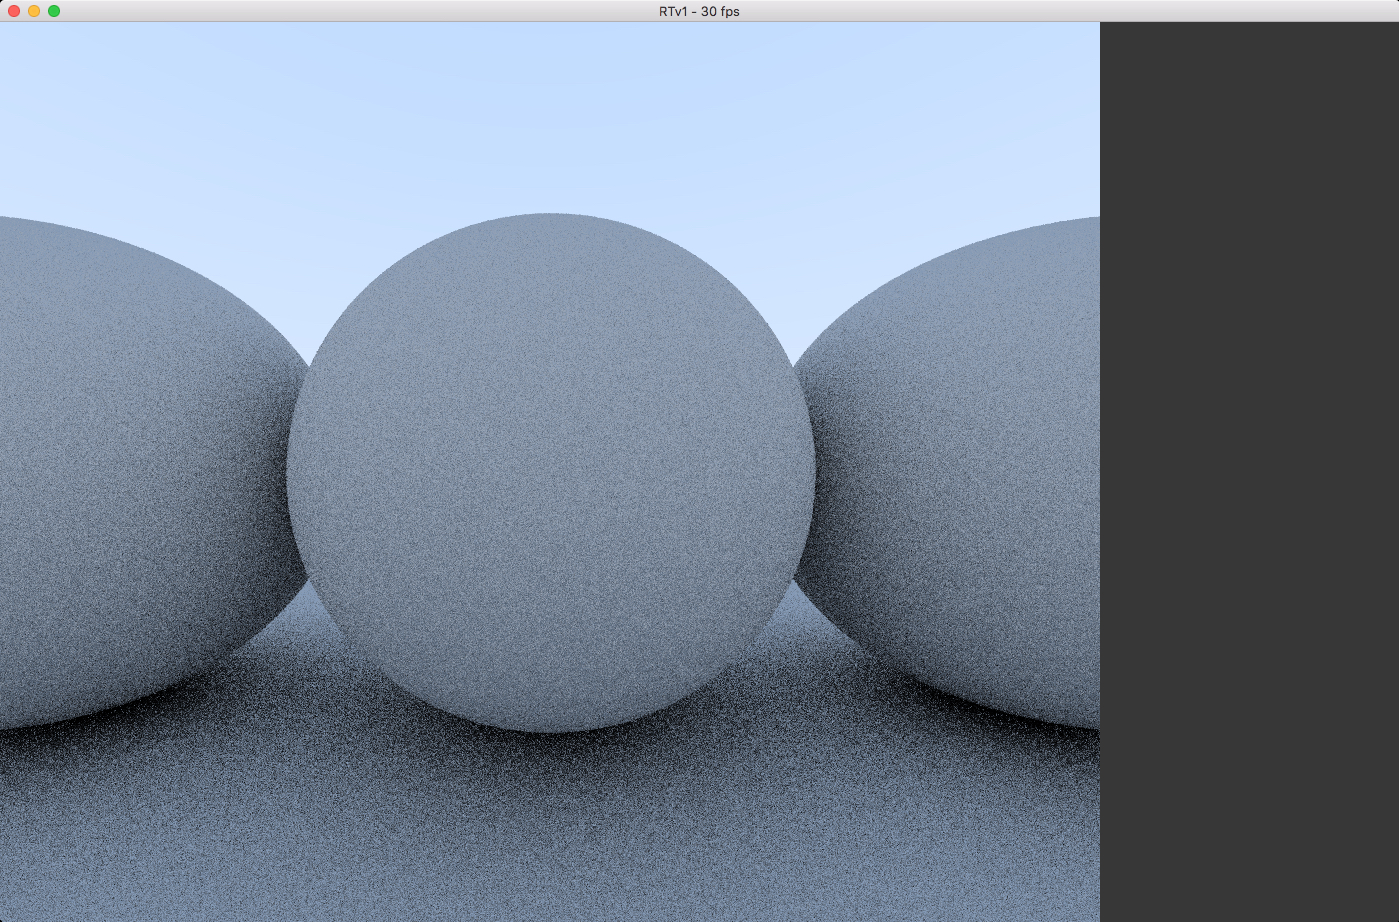
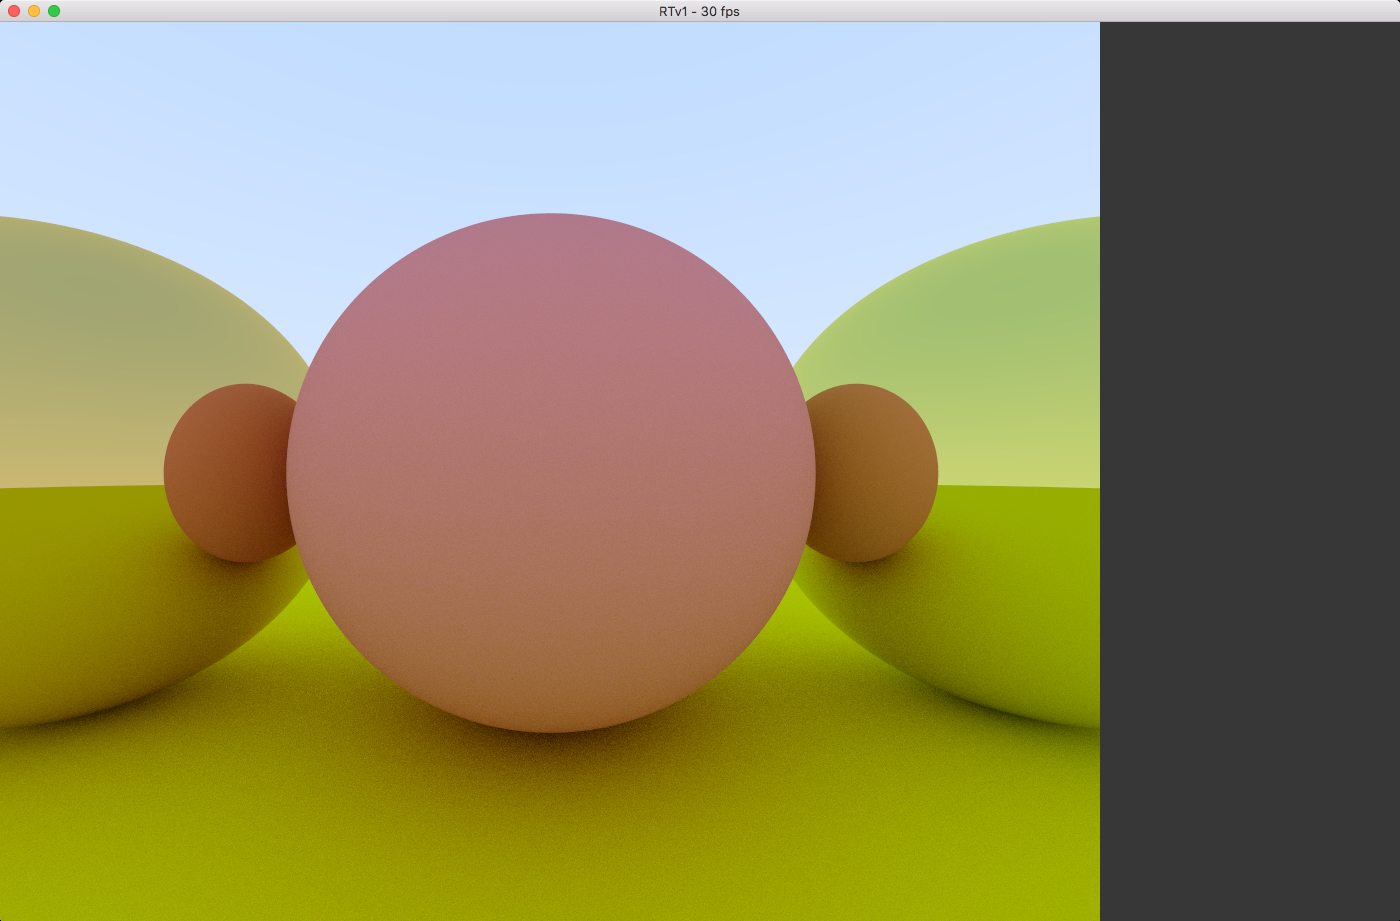
lambertian and metal material added (beta)

diff --git a/srcs/rt_render.c b/srcs/rt_render.c
@@ -6,7 +6,7 @@
 /*   By: qfremeau <qfremeau@student.42.fr>          +#+  +:+       +#+        */
 /*                                                +#+#+#+#+#+   +#+           */
 /*   Created: 2016/11/28 15:38:18 by qfremeau          #+#    #+#             */
-/*   Updated: 2016/11/30 11:59:16 by qfremeau         ###   ########.fr       */
+/*   Updated: 2016/12/02 15:11:27 by qfremeau         ###   ########.fr       */
 /*                                                                            */
 /* ************************************************************************** */
 
@@ -16,7 +16,7 @@
   All vectors need to get a unit length #v3_normalize()
 */
 
-# define ALIASING		1
+# define ALIASING		10
 # define NO_DEPTH		1
 
 static SDL_Color	vec3_to_sdlcolor(t_vec3 v)
@@ -61,30 +61,59 @@ t_vec3				*color(t_ray *ray, t_scene *scene, int depth)
 	t_vec3		*v1;
 	t_vec3		*v2;
 	t_vec3		*ret;
+	t_vec3		*target;
 
 	t_vec3		*emission;
-	t_ray		*scattered = NULL;
-	t_vec3		*attenuation = NULL;
+	t_ray		*scattered;
+	t_vec3		*attenuation;
+	t_vec3		*reflected;
 	float		t;
 
 	param.pos = v3_new_vec(0.0, 0.0, 0.0);
 	param.normal = v3_new_vec(0.0, 0.0, 0.0);
 	if (hit_list(scene, ray, 0.001, FLT_MAX, &param))
 	{
-		if (depth < 10 && param.material->scatter(param.material, ray, \
-			&param, attenuation, scattered))
+		if (depth < 50)//&& param.material->scatter(ray, param, \
+			attenuation, scattered))
 		{
+			if (param.material->type_mat == MAT_METAL)
+			{
+				v1 = v3_unit_vec(*(ray->dir));
+				reflected = reflect(*v1, *(param.normal));
+				scattered = new_ray(v3_copy_vec(*param.pos), reflected);
+				attenuation = param.material->albedo;
+				v3_free(v1);
+
+				if (v3_dot_float(*(scattered->dir), *(param.normal)) <= 0)
+					return (v3_new_vec(0.0, 0.0, 0.0));
+			}
+			else if (param.material->type_mat == MAT_LAMBERT)
+			{
+				v1 = v3_add_vec(*(param.pos), *(param.normal));
+				v2 = random_in_unit_sphere();
+				target = v3_add_vec(*v1, *v2);
+				v3_free(v1);
+				v3_free(v2);
+				scattered = new_ray(v3_copy_vec(*param.pos), \
+				v3_sub_vec(*target, *(param.pos)));
+				v3_free(target);
+				attenuation = param.material->albedo;
+			}
+			else
+				return (v3_new_vec(0.0, 0.0, 0.0));
+
 			emission = color(scattered, scene, depth + 1);
 			ret = v3_multiple_vec(*attenuation, *emission);
 			v3_free(emission);
-			v3_free(attenuation);
 			v3_free(param.pos);
 			v3_free(param.normal);
 			free_ray(scattered);
 			return (ret);
 		}
 		else
+		{
 			return (v3_new_vec(0.0, 0.0, 0.0));
+		}
 	}
 	else
 	{

diff --git a/srcs/rt_material.c b/srcs/rt_material.c
@@ -6,7 +6,7 @@
 /*   By: qfremeau <qfremeau@student.42.fr>          +#+  +:+       +#+        */
 /*                                                +#+#+#+#+#+   +#+           */
 /*   Created: 2016/11/29 14:46:01 by qfremeau          #+#    #+#             */
-/*   Updated: 2016/11/29 19:48:09 by qfremeau         ###   ########.fr       */
+/*   Updated: 2016/12/02 14:58:07 by qfremeau         ###   ########.fr       */
 /*                                                                            */
 /* ************************************************************************** */
 
@@ -21,7 +21,6 @@ t_vec3		*reflect(const t_vec3 v, const t_vec3 n)
 	ret = v3_sub_vec(v, *v1);
 	v3_free(v1);
 	return (ret);
-
 }
 
 t_mat		*new_material(t_vec3 *albedo)
@@ -33,37 +32,36 @@ t_mat		*new_material(t_vec3 *albedo)
 	return (m);
 }
 
-BOOL		scatter_lambertian(t_mat *mat, const t_ray *ray, \
-	const t_hit *param, t_vec3 *attenuation, t_ray *scattered)
+BOOL		scatter_lambertian(const t_ray *ray, const t_hit param, \
+	t_vec3 *attenuation, t_ray *scattered)
 {
+	(void)		ray;
 	t_vec3		*target;
 	t_vec3		*v1;
 	t_vec3		*v2;
 
-	v1 = v3_add_vec(*(param->pos), *(param->normal));
+	v1 = v3_add_vec(*(param.pos), *(param.normal));
 	v2 = random_in_unit_sphere();
 	target = v3_add_vec(*v1, *v2);
 	v3_free(v1);
 	v3_free(v2);
-	scattered = new_ray(v3_copy_vec(*param->pos), \
-		v3_sub_vec(*target, *(param->pos)));
+	scattered = new_ray(v3_copy_vec(*param.pos), \
+		v3_sub_vec(*target, *(param.pos)));
 	v3_free(target);
-	attenuation = mat->albedo;
+	attenuation = param.material->albedo;
 	return (TRUE);
 }
 
-BOOL		scatter_metal(t_mat *mat, const t_ray *ray, \
-	const t_hit *param, t_vec3 *attenuation, t_ray *scattered)
+BOOL		scatter_metal(const t_ray *ray, const t_hit param, \
+	t_vec3 *attenuation, t_ray *scattered)
 {
-
 	t_vec3		*v1;
 	t_vec3		*reflected;
 
 	v1 = v3_unit_vec(*(ray->dir));
-	reflected = reflect(*v1, *(param->normal));
-	scattered = new_ray(v3_copy_vec(*param->pos), reflected);
-	attenuation = mat->albedo;
+	reflected = reflect(*v1, *(param.normal));
+	scattered = new_ray(v3_copy_vec(*param.pos), reflected);
+	attenuation = param.material->albedo;
 	v3_free(v1);
-	v3_free(reflected);
-	return (v3_dot_float(*(scattered->dir), *(param->normal)) > 0);
+	return ((v3_dot_float(*(scattered->dir), *(param.normal)) > 0) ? 1 : 0);
 }

diff --git a/includes/rtv1.h b/includes/rtv1.h
@@ -6,7 +6,7 @@
 /*   By: qfremeau <qfremeau@student.42.fr>          +#+  +:+       +#+        */
 /*                                                +#+#+#+#+#+   +#+           */
 /*   Created: 2016/11/02 17:31:05 by qfremeau          #+#    #+#             */
-/*   Updated: 2016/11/30 11:57:57 by qfremeau         ###   ########.fr       */
+/*   Updated: 2016/12/02 14:13:05 by qfremeau         ###   ########.fr       */
 /*                                                                            */
 /* ************************************************************************** */
 
@@ -38,8 +38,7 @@ typedef struct s_mat
 {
 	UCHAR			type_mat;
 	t_vec3			*albedo;
-	BOOL			(*scatter)(struct s_mat*, const t_ray*, const t_hit *, \
-		t_vec3 *, t_ray *);
+	BOOL			(*scatter)(const t_ray*, const t_hit, t_vec3*, t_ray*);
 }				t_mat;
 
 typedef struct	s_plane
@@ -134,10 +133,11 @@ BOOL		hit_sphere(void *obj, const t_ray *r, const float t_min, \
 
 t_mat		*new_material(t_vec3 *albedo);
 
-BOOL		scatter_lambertian(t_mat *mat, const t_ray *ray, \
-	const t_hit *param, t_vec3 *attenuation, t_ray *scattered);
-BOOL		scatter_metal(t_mat *mat, const t_ray *ray, \
-	const t_hit *param, t_vec3 *attenuation, t_ray *scattered);
+t_vec3		*reflect(const t_vec3 v, const t_vec3 n);
+BOOL		scatter_lambertian(const t_ray *ray, const t_hit param, \
+	t_vec3 *attenuation, t_ray *scattered);
+BOOL		scatter_metal(const t_ray *ray, const t_hit param, \
+	t_vec3 *attenuation, t_ray *scattered);
 
 
 t_vec3		*random_in_unit_sphere();

diff --git a/README.md b/README.md
@@ -1,4 +1,4 @@
-![42-Project](https://dl.dropboxusercontent.com/u/59532932/48-cole204220logo.png)
 # RTv1
-C Raytracer using SDL2 and OpenCL (in developement)
-![preview](rtv1-preview.jpg)
+![loader](Loader.bmp)
+####[42-Project]
+Raytracer using SDL2 and OpenCL (in developement)
